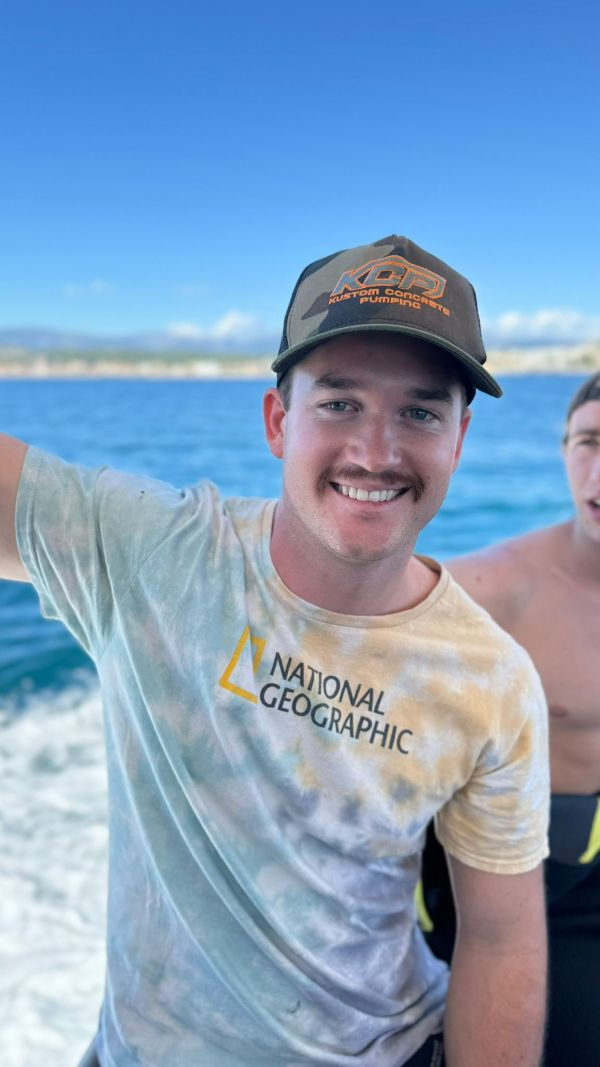
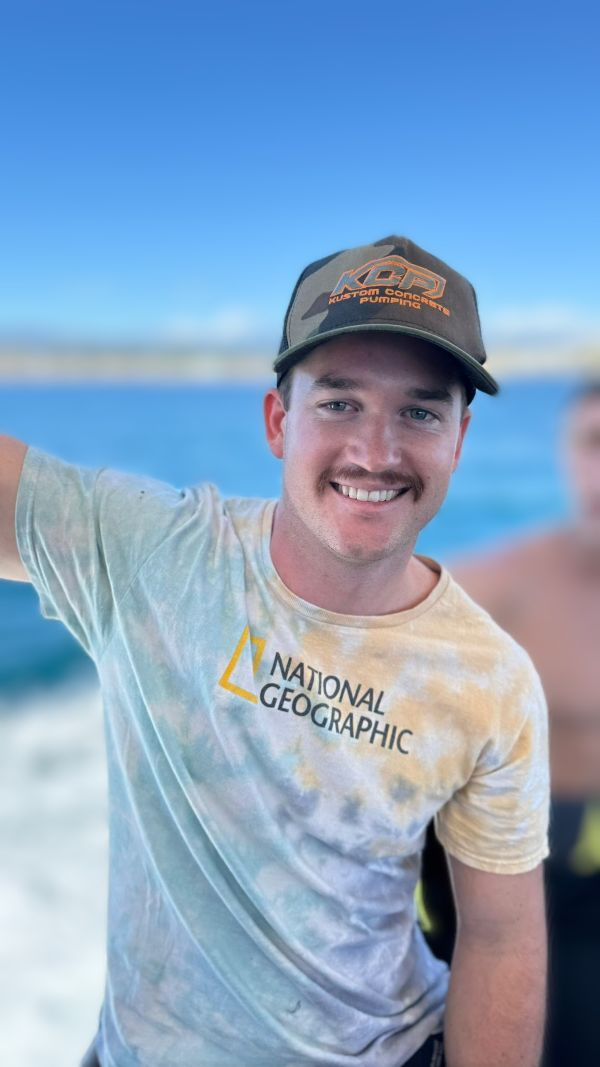
Update about page and styling

diff --git a/about.html b/about.html
@@ -97,8 +97,8 @@
             <a href="/contact.html" class="cs-button-solid cs-nav-button">Contact Us</a>
             <!--Dark Mode toggle, uncomment button code if you want to enable a dark mode toggle-->
             <button id="dark-mode-toggle" aria-label="dark mode toggle">
-                <svg class="cs-moon" xmlns="http://www.w3.org/2000/svg" viewBox="0 0 480 480" style="enable-background:new 0 0 480 480" xml:space="preserve"><path d="M459.782 347.328c-4.288-5.28-11.488-7.232-17.824-4.96-17.76 6.368-37.024 9.632-57.312 9.632-97.056 0-176-78.976-176-176 0-58.4 28.832-112.768 77.12-145.472 5.472-3.712 8.096-10.4 6.624-16.832S285.638 2.4 279.078 1.44C271.59.352 264.134 0 256.646 0c-132.352 0-240 107.648-240 240s107.648 240 240 240c84 0 160.416-42.688 204.352-114.176 3.552-5.792 3.04-13.184-1.216-18.496z"/></svg>
-                <img class="cs-sun" aria-hidden="true" src="https://csimg.nyc3.cdn.digitaloceanspaces.com/Icons%2Fsun.svg" decoding="async" alt="moon" width="15" height="15">
+                <img class="cs-moon" src="/assets/images/moon.svg" alt="moon" width="15" height="15">
+                <img class="cs-sun" aria-hidden="true" src="/assets/images/sun.svg" decoding="async" alt="moon" width="15" height="15">
             </button>
         </div>
     </header>
@@ -136,16 +136,18 @@
                     <img loading="lazy" decoding="async" src="assets/images/sam.jpg" alt="room" width="494" height="700">
                 </picture>
                 <div class="cs-content">
-                    <span class="cs-topper">Meet Chris</span>
-                    <h2 class="cs-title">Trusted Fishing Guide on Lake Rathbun</h2>
+                    <span class="cs-topper">Meet Sam</span>
+                    <h2 class="cs-title">The Man Behind The Mask</h2>
                     <p class="cs-text">
-                        Chris offers half-day guided fishing trips on Lake Rathbun, specializing in Walleye, Hybrid Striped Bass, and Crappie. With nearly 30 years of local experience on the water, he knows the lake’s patterns, structure, and seasonal behavior better than most. 
+                        I build custom websites focused on performance, clarity, and results. Every site is hand coded to ensure fast load times, reliability, and a clean user experience that helps small businesses stand out and attract more customers online.
                     </p>
+
                     <p class="cs-text">
-                        Before becoming a full-time guide, Chris worked as a fish biologist at the Rathbun Fish Hatchery, where he contributed to maintaining and managing Iowa’s walleye populations across multiple lakes and river systems. That background gives him a rare, science-based understanding of fish behavior that directly benefits every trip.
+                        I work closely with every client and stay highly responsive throughout the entire process. Whether you need a simple website or something more advanced, I’m flexible and able to adapt the build to match your business needs as they grow.
                     </p>
+
                     <p class="cs-text">
-                        All bait and tackle are provided, and trips are designed to be relaxed, instructional, and productive—whether you’re an experienced angler or just getting started. The goal is simple: put you on fish and make sure you enjoy your time on the water.
+                        I’m an American developer currently based in France, which allows me to support clients across both European and North American time zones. This gives you extended availability, clear communication, and consistent progress on your project no matter where you’re located.
                     </p>
                     <a href="" class="cs-button-solid">Book Now</a>
                 </div>
@@ -159,42 +161,42 @@
         <section id="why-choose-12">
             <div class="cs-container">
                 <div class="cs-content">
-                    <span class="cs-topper">Experienced</span>
-                    <h2 class="cs-title">Why Choose Us?</h2>
+                    <span class="cs-topper">Working Together</span>
+                    <h2 class="cs-title">A Simple and Reliable Process</h2>
                     <p class="cs-text">
-                        Lorem ipsum dolor sit amet, consectetur adipisicing elit. Quam earum rerum sunt officia quas adipisci. Nulla, dolor dignissimos qui laboriosam, asperiores aliquam soluta voluptatum, dolorem dolores minima delectus quas nam?
+                        I keep the process straightforward, communicative, and focused on your business goals. From the initial conversation to ongoing support after launch, my goal is to make your website one less thing you have to worry about.
                     </p>
                 </div>
                 <ul class="cs-card-group">
                     <li class="cs-item">
                         <picture class="cs-picture">
-                            <img loading="lazy" decoding="async" src="https://csimg.nyc3.digitaloceanspaces.com/Why-Choose/sheild.svg" alt="heart icon" width="42" height="42" aria-hidden="true">
+                            <img loading="lazy" decoding="async" src="/assets/images/helmet-knight.svg" alt="heart icon" width="42" height="42" aria-hidden="true">
                         </picture>
-                        <h3 class="cs-h3">Experienced Staff</h3>
+                        <h3 class="cs-h3">Direct Communication</h3>
                         <p class="cs-item-text">
-                            Lorem ipsum dolor sit amet, consectetur adipiscing elit. Nunc tempus, dolor enim, elit. 
+                            You work directly with me throughout the project. No outsourcing chains, confusing support systems, or long response times. 
                         </p>
                     </li>
                     <li class="cs-item">
                         <picture class="cs-picture">
-                            <img loading="lazy" decoding="async" src="https://csimg.nyc3.digitaloceanspaces.com/Why-Choose/toolbox.svg" alt="toolbox icon" width="42" height="42" aria-hidden="true">
+                            <img loading="lazy" decoding="async" src="/assets/images/quiver.svg" alt="toolbox icon" width="42" height="42" aria-hidden="true">
                         </picture>
-                        <h3 class="cs-h3">Own Our Equipment</h3>
+                        <h3 class="cs-h3">Flexible Solutions</h3>
                         <p class="cs-item-text">
-                            Lorem ipsum dolor sit amet, consectetur adipiscing elit. Nunc tempus, dolor enim, elit. 
+                            Whether you need a simple business website or more advanced functionality, I can adapt the project to match your goals and future growth. 
                         </p>
                     </li>
                     <li class="cs-item">
                         <picture class="cs-picture">
-                            <img loading="lazy" decoding="async" src="https://csimg.nyc3.digitaloceanspaces.com/Why-Choose/ribbon.svg" alt="ribbon icon" width="32" height="42" aria-hidden="true">
+                            <img loading="lazy" decoding="async" src="/assets/images/shield.svg" alt="ribbon icon" width="32" height="42" aria-hidden="true">
                         </picture>
-                        <h3 class="cs-h3">Licensed & Insured</h3>
+                        <h3 class="cs-h3">Long Term Support</h3>
                         <p class="cs-item-text">
-                            Lorem ipsum dolor sit amet, consectetur adipiscing elit. Nunc tempus, dolor enim, elit. 
+                            I continue supporting your website after launch with updates, edits, hosting, and ongoing improvements whenever you need them.
                         </p>
                     </li>
                 </ul>
-                <a href="" class="cs-button-solid">Get Free Quote</a>
+                <a href="" class="cs-button-solid">Start Your Project</a>
             </div>
         </section>
                                 
@@ -288,8 +290,7 @@
             </ul>
         </div>
     </footer>
-                                
-
+                     
     <script defer src="/assets/js/nav.js"></script>
 </body>
 </html>

diff --git a/css/about.css b/css/about.css
@@ -134,7 +134,13 @@
     max-width: 22.5rem;
     margin: 0;
     padding: 0;
+    border-radius: 1rem;
+    transition: transform 0.3s ease, box-shadow 0.3s ease;
   }
+  #why-choose-12 .cs-item:hover {
+    transform: translateY(-8px);
+    box-shadow: 0 12px 30px rgba(0,0,0,0.12);
+}
   #why-choose-12 .cs-picture {
     /* 68px - 88px */
     width: clamp(4.25rem, 7vw, 5.5rem);

diff --git a/contact.html b/contact.html
@@ -97,8 +97,8 @@
             <a href="/contact.html" class="cs-button-solid cs-nav-button">Contact Us</a>
             <!--Dark Mode toggle, uncomment button code if you want to enable a dark mode toggle-->
             <button id="dark-mode-toggle" aria-label="dark mode toggle">
-                <svg class="cs-moon" xmlns="http://www.w3.org/2000/svg" viewBox="0 0 480 480" style="enable-background:new 0 0 480 480" xml:space="preserve"><path d="M459.782 347.328c-4.288-5.28-11.488-7.232-17.824-4.96-17.76 6.368-37.024 9.632-57.312 9.632-97.056 0-176-78.976-176-176 0-58.4 28.832-112.768 77.12-145.472 5.472-3.712 8.096-10.4 6.624-16.832S285.638 2.4 279.078 1.44C271.59.352 264.134 0 256.646 0c-132.352 0-240 107.648-240 240s107.648 240 240 240c84 0 160.416-42.688 204.352-114.176 3.552-5.792 3.04-13.184-1.216-18.496z"/></svg>
-                <img class="cs-sun" aria-hidden="true" src="https://csimg.nyc3.cdn.digitaloceanspaces.com/Icons%2Fsun.svg" decoding="async" alt="moon" width="15" height="15">
+                <img class="cs-moon" src="/assets/images/moon.svg" alt="moon" width="15" height="15">
+                <img class="cs-sun" aria-hidden="true" src="/assets/images/sun.svg" decoding="async" alt="moon" width="15" height="15">
             </button>
         </div>
     </header>

diff --git a/portfolio.html b/portfolio.html
@@ -97,8 +97,8 @@
             <a href="/contact.html" class="cs-button-solid cs-nav-button">Contact Us</a>
             <!--Dark Mode toggle, uncomment button code if you want to enable a dark mode toggle-->
             <button id="dark-mode-toggle" aria-label="dark mode toggle">
-                <svg class="cs-moon" xmlns="http://www.w3.org/2000/svg" viewBox="0 0 480 480" style="enable-background:new 0 0 480 480" xml:space="preserve"><path d="M459.782 347.328c-4.288-5.28-11.488-7.232-17.824-4.96-17.76 6.368-37.024 9.632-57.312 9.632-97.056 0-176-78.976-176-176 0-58.4 28.832-112.768 77.12-145.472 5.472-3.712 8.096-10.4 6.624-16.832S285.638 2.4 279.078 1.44C271.59.352 264.134 0 256.646 0c-132.352 0-240 107.648-240 240s107.648 240 240 240c84 0 160.416-42.688 204.352-114.176 3.552-5.792 3.04-13.184-1.216-18.496z"/></svg>
-                <img class="cs-sun" aria-hidden="true" src="https://csimg.nyc3.cdn.digitaloceanspaces.com/Icons%2Fsun.svg" decoding="async" alt="moon" width="15" height="15">
+                <img class="cs-moon" src="/assets/images/moon.svg" alt="moon" width="15" height="15">
+                <img class="cs-sun" aria-hidden="true" src="/assets/images/sun.svg" decoding="async" alt="moon" width="15" height="15">
             </button>
         </div>
     </header>

diff --git a/reviews.html b/reviews.html
@@ -97,8 +97,8 @@
             <a href="/contact.html" class="cs-button-solid cs-nav-button">Contact Us</a>
             <!--Dark Mode toggle, uncomment button code if you want to enable a dark mode toggle-->
             <button id="dark-mode-toggle" aria-label="dark mode toggle">
-                <svg class="cs-moon" xmlns="http://www.w3.org/2000/svg" viewBox="0 0 480 480" style="enable-background:new 0 0 480 480" xml:space="preserve"><path d="M459.782 347.328c-4.288-5.28-11.488-7.232-17.824-4.96-17.76 6.368-37.024 9.632-57.312 9.632-97.056 0-176-78.976-176-176 0-58.4 28.832-112.768 77.12-145.472 5.472-3.712 8.096-10.4 6.624-16.832S285.638 2.4 279.078 1.44C271.59.352 264.134 0 256.646 0c-132.352 0-240 107.648-240 240s107.648 240 240 240c84 0 160.416-42.688 204.352-114.176 3.552-5.792 3.04-13.184-1.216-18.496z"/></svg>
-                <img class="cs-sun" aria-hidden="true" src="https://csimg.nyc3.cdn.digitaloceanspaces.com/Icons%2Fsun.svg" decoding="async" alt="moon" width="15" height="15">
+                <img class="cs-moon" src="/assets/images/moon.svg" alt="moon" width="15" height="15">
+                <img class="cs-sun" aria-hidden="true" src="/assets/images/sun.svg" decoding="async" alt="moon" width="15" height="15">
             </button>
         </div>
     </header>